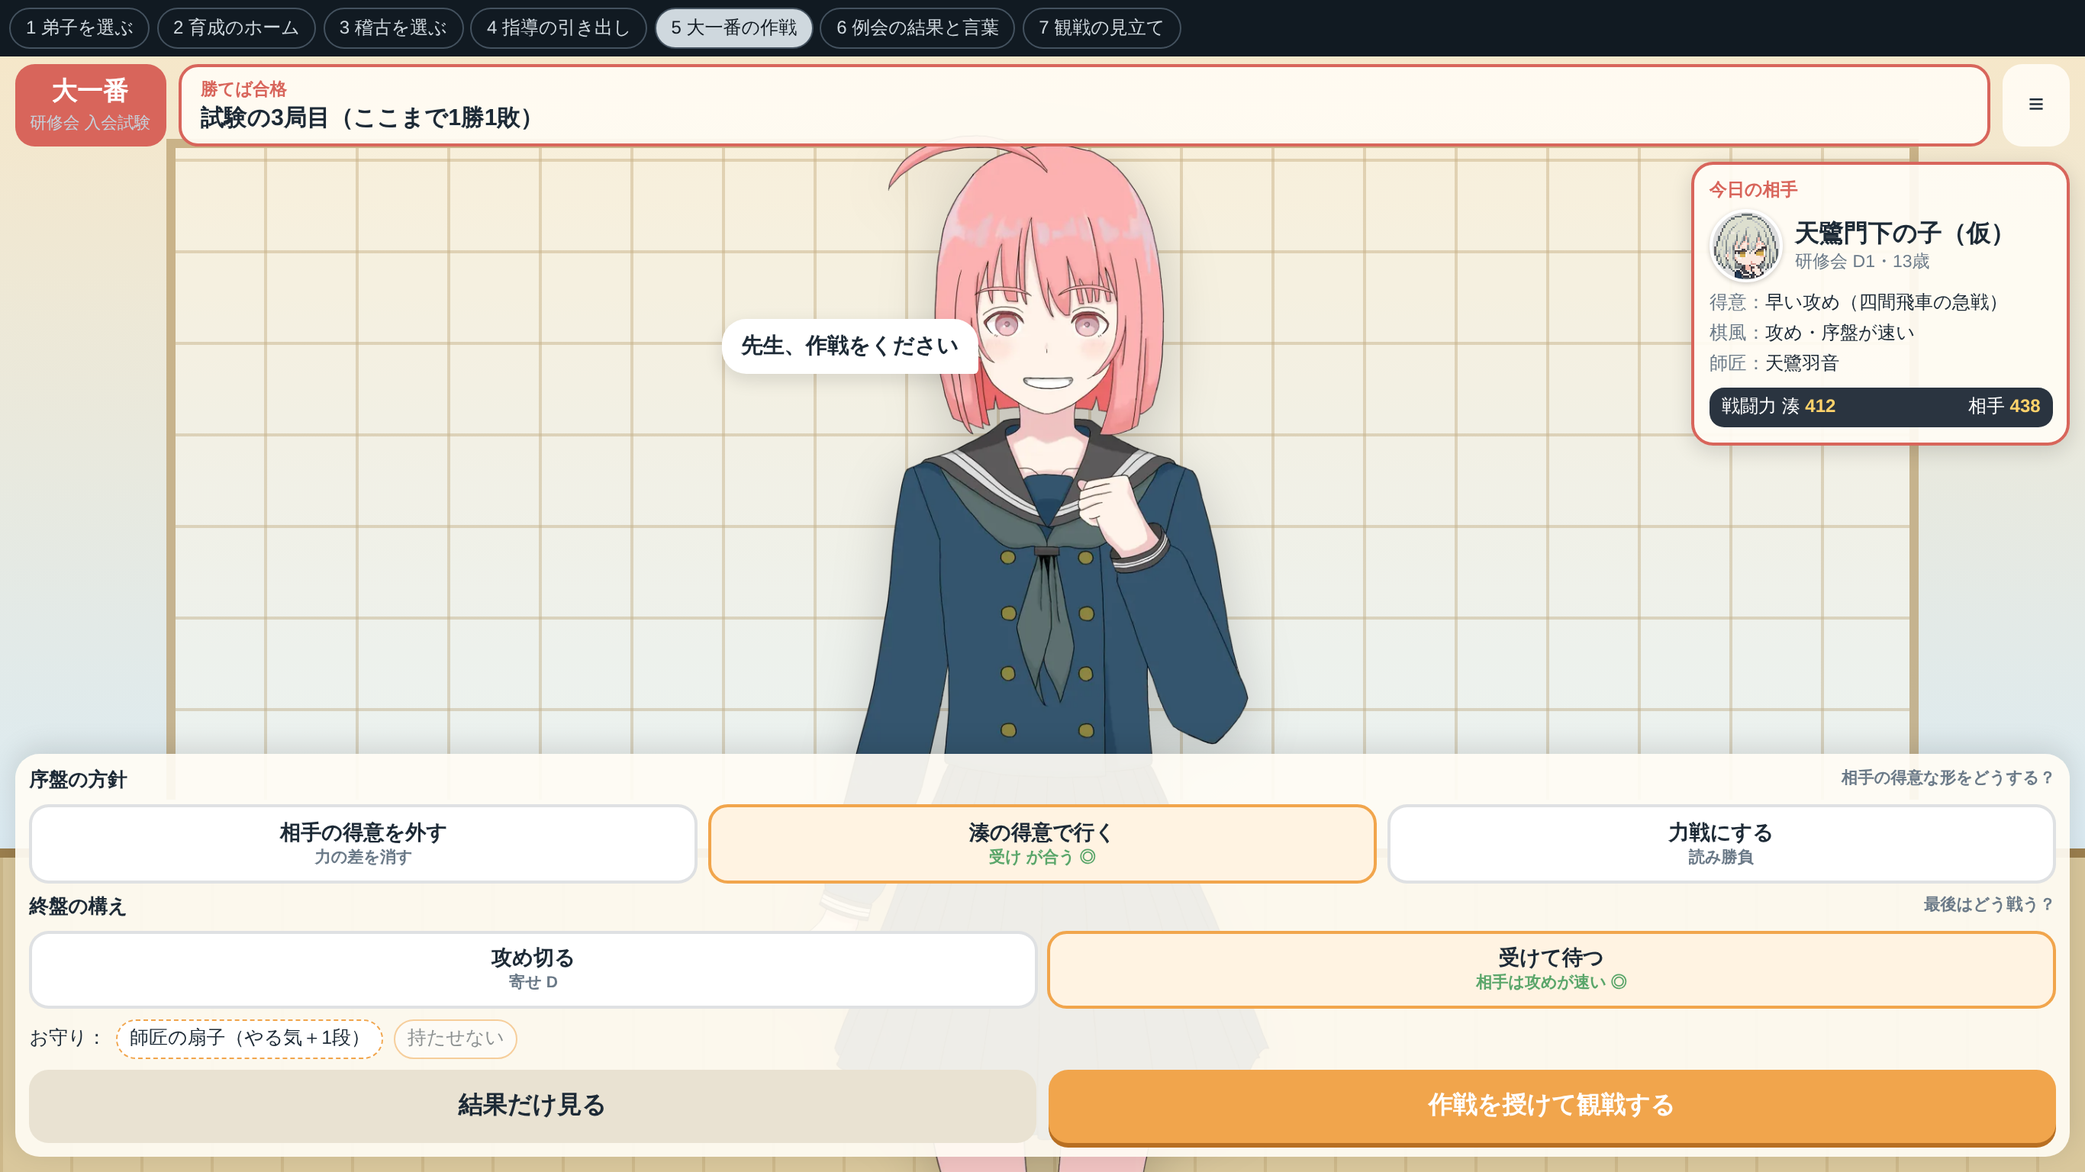
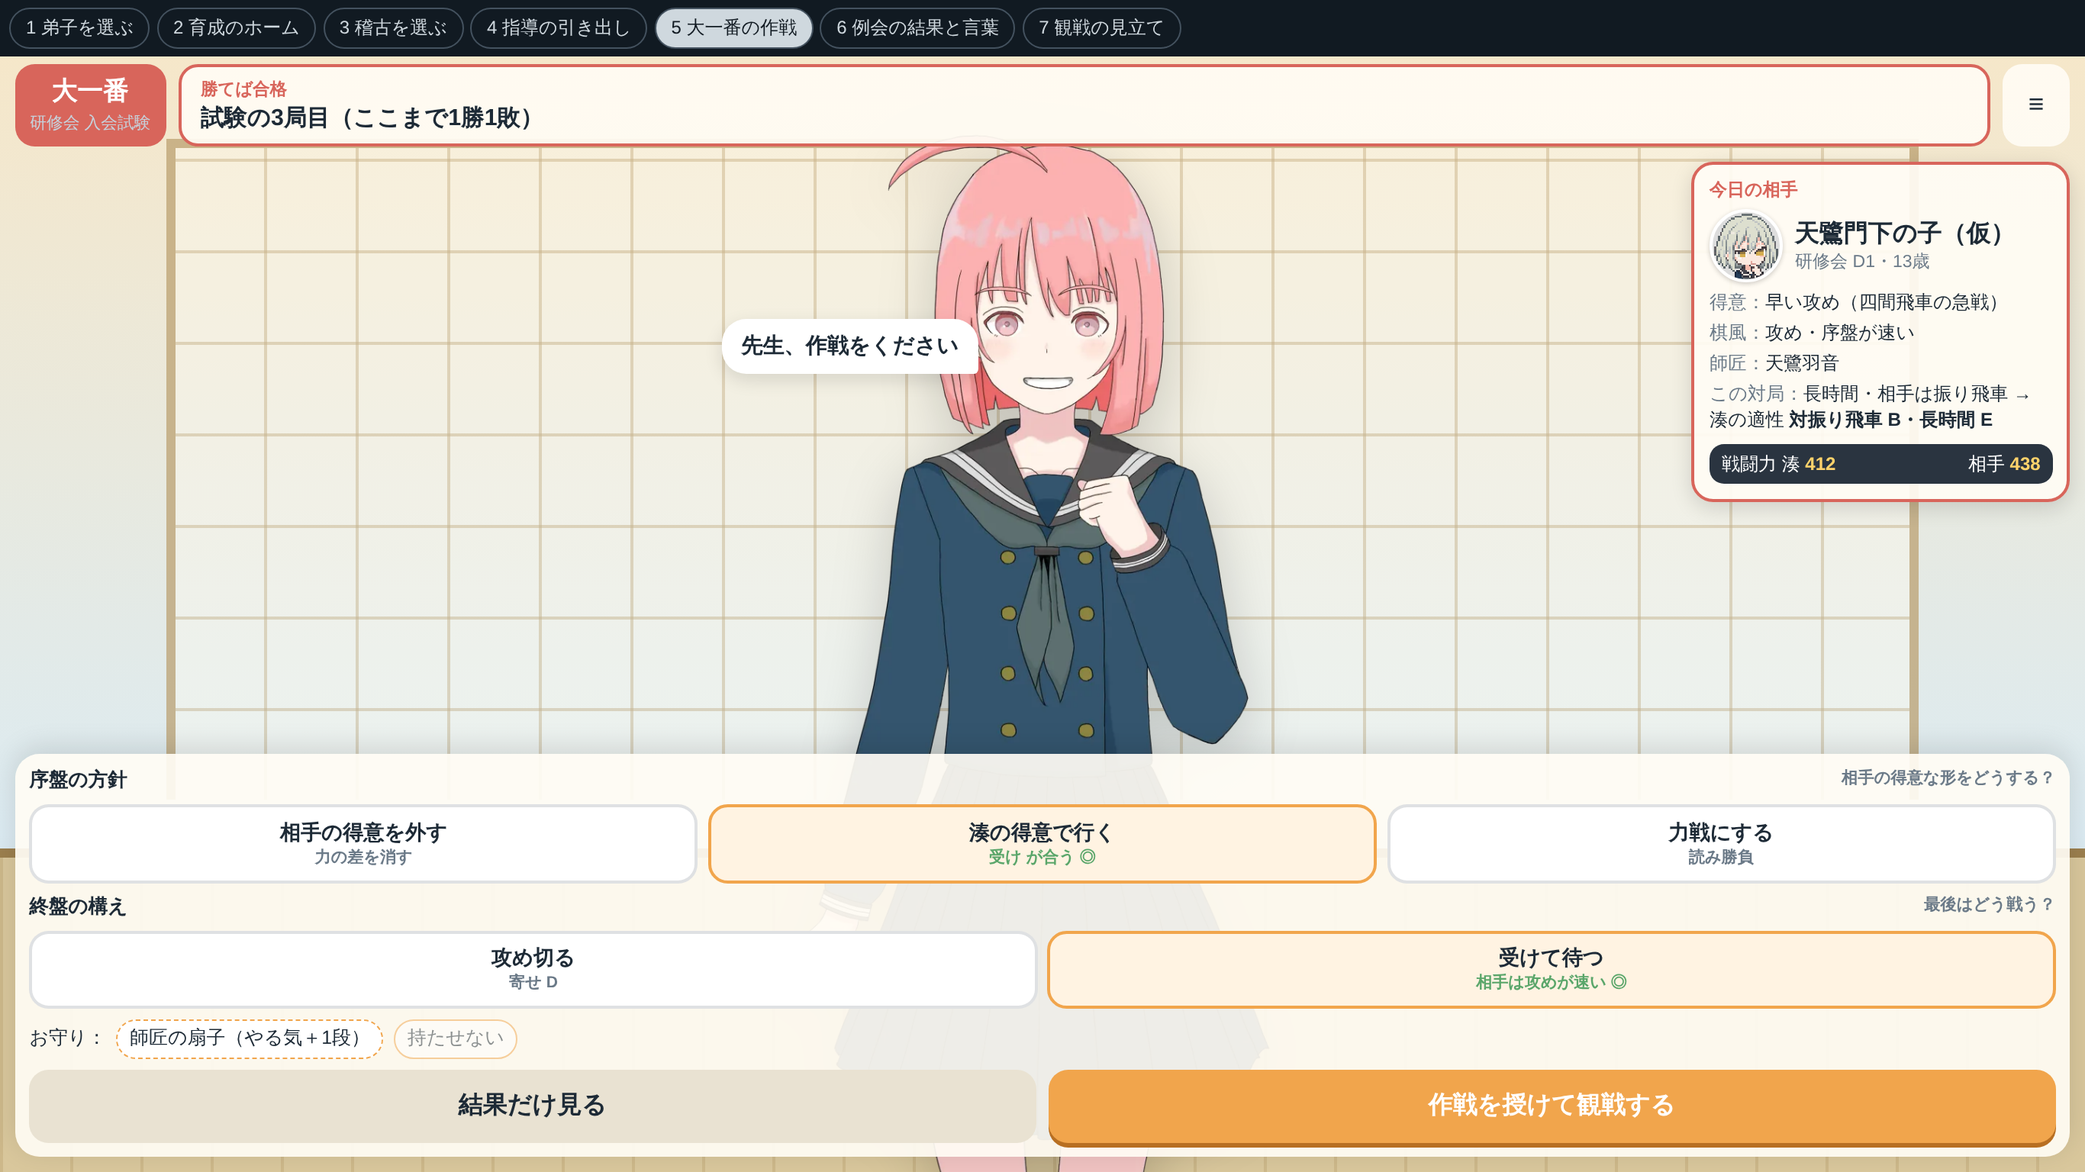
docs: 師匠の1年の能力値を4つにし、適性と戦い方を足す。
- 時間を持ち時間の適性に移し、能力値は読み・作戦・安定・詰みの4つにする
- 強さは0.6×平均＋0.4×最低で、いちばん弱い能力に引っ張られる。Aより上は伸びが鈍る(D:4-7 平均と平凡は同じ・D:2-1)
- 戦型と持ち時間の適性(G〜A)で対局ごとに倍率、戦い方(主導・カウンター・粘り・研究)で指し方の向きとスキルの相性(D:8-1)
- モックアップの能力の札・適性の表・稽古の伸び・大一番の相手の札を直した
- 設計は20章、AGENTS.mdを更新

Claude-Session: https://claude.ai/code/session_01CSNAKJWwLor7hKy3TRq9Wu

Changed region(s): [[0.8089, 0.3125, 0.9956, 0.4375]]

diff --git a/docs/disciple-mode/mock.html b/docs/disciple-mode/mock.html
@@ -76,6 +76,12 @@ button { font: inherit; color: inherit; cursor: pointer; }
 .skills { display: flex; flex-wrap: wrap; gap: 0.25rem; margin-top: 0.15rem; }
 .skill { padding: 0.08rem 0.45rem; border-radius: 999px; background: linear-gradient(90deg, #ffe6a8, #ffd0a0); color: #6a3a10; font-size: 0.66rem; font-weight: 900; }
 .skill--hidden { background: #e6e1d6; color: var(--muted); }
+.skill--style { background: var(--ink); color: #fff; }
+.apt { display: grid; grid-template-columns: repeat(3, 1fr); gap: 0.2rem; }
+.apt span { display: flex; justify-content: space-between; padding: 0.1rem 0.3rem; border-radius: 0.35rem; background: #f3eee2; font-size: 0.66rem; font-weight: 800; }
+.apt b { color: var(--accent-ink); }
+.gains { grid-template-columns: repeat(4, 1fr) !important; }
+.extra { margin-top: 0.3rem; font-size: 0.72rem; color: #c0661b; font-weight: 800; }
 .tr .aim { position: absolute; top: 0.3rem; right: 0.4rem; padding: 0 0.35rem; border-radius: 999px; background: #e2457a; color: #fff; font-size: 0.58rem; }
 
 /* ---- 右のやる気・体力 */
@@ -256,7 +262,7 @@ button { font: inherit; color: inherit; cursor: pointer; }
   .stat .rank { width: 1.3rem; height: 1.3rem; font-size: 0.68rem; }
   .stats .who b { font-size: 0.8rem; }
   .mood { top: 3.7rem; right: 0.4rem; width: 7.4rem; padding: 0.4rem 0.45rem; gap: 0.3rem; }
-  .mood .note { display: none; }
+  .apt { grid-template-columns: repeat(2, 1fr); }
   .friend { width: 1.9rem; height: 1.9rem; }
   .say, .say--high { top: 44%; bottom: auto; left: 0.6rem; transform: none; max-width: 60%; font-size: 0.8rem; }
   .dock, .train-row { left: 0.4rem; right: 0.4rem; bottom: 0.4rem; grid-template-columns: repeat(3, minmax(0, 1fr)); }
@@ -343,7 +349,7 @@ button { font: inherit; color: inherit; cursor: pointer; }
       <div><small>やる気</small><span class="face">好調 ↗</span></div>
       <div><small>体力 72/100</small><div class="hp"><i style="width:72%"></i></div></div>
       <div><small>仲間</small><div class="friends" data-friends></div></div>
-      <div class="note">稽古に顔を出した仲間と一緒だと、よく伸びる</div>
+      <div><small>適性</small><div class="apt" data-apt></div></div>
     </aside>
     <div class="say">先生、今日はなにをしますか</div>
     <nav class="dock">
@@ -368,6 +374,7 @@ button { font: inherit; color: inherit; cursor: pointer; }
     <div class="preview">
       <h4><span id="tr-name">詰将棋</span><small id="tr-note">体力 −20・失敗 4%</small></h4>
       <div class="gains" id="tr-gains"></div>
+      <div class="extra" id="tr-extra"></div>
       <div class="go"><button class="btn-sub" data-go="home">やめる</button><button class="btn-main" data-go="lesson">この稽古にする</button></div>
     </div>
     <nav class="train-row" id="train-row"></nav>
@@ -411,6 +418,7 @@ button { font: inherit; color: inherit; cursor: pointer; }
         <li><span>得意：</span>早い攻め（四間飛車の急戦）</li>
         <li><span>棋風：</span>攻め・序盤が速い</li>
         <li><span>師匠：</span>天鷺羽音</li>
+        <li><span>この対局：</span>長時間・相手は振り飛車 → 湊の適性 <b>対振り飛車 B・長時間 E</b></li>
       </ul>
       <div class="power"><span>戦闘力 湊 <b>412</b></span><span>相手 <b>438</b></span></div>
     </aside>
@@ -511,15 +519,17 @@ function drawFigures() {
 // ---- 能力(5つ)
 const STATS = [
   { name: '読み', rank: 'E', value: 342 }, { name: '作戦', rank: 'F', value: 268 }, { name: '安定', rank: 'D', value: 488 },
-  { name: '詰み', rank: 'E', value: 395 }, { name: '時間', rank: 'F', value: 214 },
+  { name: '詰み', rank: 'E', value: 395 },
 ];
 const SKILLS = [{ name: '早見え', star: 1 }, { name: '？？？', star: 0, hidden: true }];
+const STYLE = 'カウンター型';
+const APTITUDES = [['対居', 'C'], ['対振', 'B'], ['相振', 'E'], ['角換', 'D'], ['早指', 'C'], ['長時間', 'E']];
 const TRAINS = [
-  { id: 'tsume', name: '詰将棋', ic: '🧩', lv: 2, fail: 4, cost: 20, gains: [6, 0, 0, 18, 0], friends: ['momoka'] },
-  { id: 'kifu', name: '棋譜並べ', ic: '📜', lv: 1, fail: 4, cost: 15, gains: [0, 16, 5, 0, 0], friends: [], aim: true },
-  { id: 'jissen', name: '実戦', ic: '♟', lv: 1, fail: 6, cost: 22, gains: [15, 0, 6, 0, 0], friends: ['pro'] },
-  { id: 'fast', name: '早指し', ic: '⏱', lv: 3, fail: 9, cost: 25, gains: [5, 0, 0, 0, 17], friends: [] },
-  { id: 'shisho', name: '師匠と指す', ic: '🏯', lv: 1, fail: 2, cost: 12, gains: [0, 0, 14, 0, 0], friends: [] },
+  { id: 'tsume', name: '詰将棋', ic: '🧩', lv: 2, fail: 4, cost: 20, gains: [6, 0, 0, 18], friends: ['momoka'] },
+  { id: 'kifu', name: '棋譜並べ', ic: '📜', lv: 1, fail: 4, cost: 15, gains: [0, 16, 0, 0], friends: [], aim: true, extra: '対振り飛車の適性 +1目盛り' },
+  { id: 'jissen', name: '実戦', ic: '♟', lv: 1, fail: 6, cost: 22, gains: [15, 0, 5, 0], friends: ['pro'] },
+  { id: 'fast', name: '早指し', ic: '⏱', lv: 3, fail: 9, cost: 25, gains: [0, 0, 17, 0], friends: [], extra: '早指しの適性 +1目盛り' },
+  { id: 'shisho', name: '師匠と指す', ic: '🏯', lv: 1, fail: 2, cost: 12, gains: [0, 0, 14, 0], friends: [], extra: '戦い方を少し寄せる' },
 ];
 const FRIENDS = {
   momoka: { img: '../../public/characters/sakurano-momoka-320.webp', heart: 60, px: false },
@@ -529,7 +539,7 @@ const FRIENDS = {
 const friendHtml = (id) => { const f = FRIENDS[id]; return `<span class="friend${f.px ? ' px' : ''}"><img src="${f.img}" alt=""><span class="heart"><i style="width:${f.heart}%"></i></span></span>`; };
 function statsHtml(gains = null) {
   const d = DISCIPLES[current];
-  const skills = `<div class="skills">${SKILLS.map((skill) => `<span class="skill${skill.hidden ? ' skill--hidden' : ''}">${skill.hidden ? '弱点 ？' : `${skill.name}${'★'.repeat(skill.star)}`}</span>`).join('')}</div>`;
+  const skills = `<div class="skills"><span class="skill skill--style">${STYLE}</span>${SKILLS.map((skill) => `<span class="skill${skill.hidden ? ' skill--hidden' : ''}">${skill.hidden ? '弱点 ？' : `${skill.name}${'★'.repeat(skill.star)}`}</span>`).join('')}</div>`;
   return `<div class="who"><b>${d.name.replace('（仮）', '')}</b><small>研修会前</small></div>` + STATS.map((stat, index) => {
     const rank = stat.rank.replace('+', '');
     const up = gains && gains[index] ? `<span class="up">+${gains[index]}</span>` : `<span></span>`;
@@ -544,12 +554,14 @@ function drawTrain() {
   document.getElementById('tr-name').textContent = t.name + (t.friends.length ? '　仲間と一緒' : '');
   document.getElementById('tr-note').textContent = `体力 −${t.cost}・失敗 ${t.fail}%`;
   document.getElementById('tr-gains').innerHTML = STATS.map((stat, index) => `<div class="${t.gains[index] >= 10 ? 'hot' : ''}">${stat.name}<b>${t.gains[index] ? `+${t.gains[index]}` : '—'}</b></div>`).join('');
+  document.getElementById('tr-extra').textContent = t.extra ?? '';
   document.querySelector('#train [data-stats]').innerHTML = statsHtml(t.gains);
   for (const el of row.querySelectorAll('[data-tr]')) el.addEventListener('click', () => { pickedTrain = Number(el.dataset.tr); drawTrain(); });
   for (const el of row.querySelectorAll('[data-go]')) el.addEventListener('click', () => show(el.dataset.go));
 }
 function drawHome() {
   document.querySelector('#home [data-stats]').innerHTML = statsHtml();
+  document.querySelector('#home [data-apt]').innerHTML = APTITUDES.map(([name, rank]) => `<span>${name}<b>${rank}</b></span>`).join('');
   document.querySelector('#home [data-friends]').innerHTML = ['momoka', 'pro', 'hanane'].map(friendHtml).join('');
   for (const el of document.querySelectorAll('[data-badge]')) el.innerHTML = el.dataset.badge === '2' ? friendHtml('momoka') + friendHtml('pro') : friendHtml('pro');
 }

diff --git a/docs/disciple-mode-design.md b/docs/disciple-mode-design.md
@@ -449,3 +449,72 @@
 - 立ち絵を百花の立ち絵（`public/characters/sakurano-momoka.webp`）に替えた（仮）。
 - 能力の札を5つの能力（読み・作戦・安定・詰み・時間）にし、スキルの札を足した。
 - 画面7「観戦の見立て」を足した（評価値のグラフと印・理由の5択・狙い目）。
+
+## 20. 能力値・適性・戦い方の組み替え（2026-11-21。ユーザーの「それでいってみよう」）
+
+19章の能力値を、次の4層に組み替える。19章のうち、観戦の見立て（19-5）・対局の決め方（19-6）・スキル15（19-4。名前の確認は残る）はそのまま。19-2の「時間」・19-3の作戦熟練度・19-7の稽古の表は、この章で置き換える。
+
+### 20-1. 組み替えた理由（19章の案の弱いところ）
+
+1. 「時間」は持ち時間が短い対局と秒読みでしか効かず、上げても効いた気がしない。
+2. 強さの式が単純だと、下の段の勝負を決めるうっかりを減らす「安定」だけ上げるのが正解になる（D:4-7 平均と平凡は同じ／選ぶ楽しさが消える）。
+3. 5つとも強さのつまみで、指し方の個性（攻め将棋・受け将棋）が盤の上に出ない（D:8-1 パラメーターでキャラ立ちを）。
+
+### 20-2. 4つの層
+
+| 層 | 中身 | 何に効くか |
+| --- | --- | --- |
+| 能力値（4つ・0〜1200） | 読み・作戦・安定・詰み | 強さ。AIのつまみは19-2のまま（読み＝探索量・候補数、作戦＝戦法と囲いの選び方・大局観・序盤のぶれ、安定＝ぶれ・見落とし・確認・台無しの上限、詰み＝詰みを見つける力・詰めろに気づく手数） |
+| 適性（G〜A） | 戦型の適性4つ（対居飛車・対振り飛車・相振り・角換わり）と、持ち時間の適性2つ（早指し・長時間） | 対局ごとに、合う適性で4つの能力に倍率（A×1.05・B×1.0・C×0.95・D×0.9・E×0.85・F×0.82・G×0.8）。戦型の適性は相手の戦法で、持ち時間の適性は本番の持ち時間で選ぶ |
+| 戦い方（1つ） | 主導型・カウンター型・粘り型・研究型 | 指し手の向き（攻めと受けの好み）と、スキルの相性 |
+| スキル | 15個（19-4） | 場面ごとのつまみ |
+
+### 20-3. 強さの式（いちばん弱い能力に引っ張られる）
+
+- 4つの能力をLvに換えたあと（0＝Lv12、600＝Lv30、1200＝Lv49。19-2）、全体の強さ＝0.6×平均＋0.4×最低。対局のつまみは能力ごとのLvで引くが、AIの読みの量（探索量）の上限と、観戦しない局の勝ち負けに使うレーティングは、この全体の強さから出す。
+- A（900）より上は伸びが鈍る（稽古の伸び×0.6、S（1050）より上は×0.4）。SSと藤井曲線は「全部をそろえた先のごほうび」にする。
+- これで「尖らせる（得意の場面で勝つ）か、そろえる（崩れない）か」が選択になる（D:2-1）。数字は自己対局で測って直す。
+
+### 20-4. 適性
+
+- 持ち時間の適性は、本番ごとの持ち時間で効く：研修会と奨励会の例会（持ち時間の短い対局）は早指し、三段リーグの大一番と四段のあとのタイトル戦（二日制）は長時間。大一番の相手の札に「この対局は長時間」と出し、適性と見比べられる（D:2-1）。
+- 観戦の「時間切迫」は、持ち時間の適性が低いときに出やすい（今の時計の重圧`clockEffect`を、適性で強める）。19章の時間配分のつまみ（`cpuThinkPlan`の配り方）は、持ち時間の適性で決める。
+- 戦型の適性は、相手の得意戦法（相手の札に出る）と大一番の作戦（得意を外す・自分の得意で行く）で効く。19-3の作戦熟練度（戦法ごとの★）はやめ、この大きな括りにする（見て分かり、選ぶのが簡単。UD:2）。
+- 適性は稽古（20-6）と、その戦型・持ち時間で勝った数で上がる。
+
+### 20-5. 戦い方
+
+| 戦い方 | 指し方 | かみ合うスキル | はじめの弟子 |
+| --- | --- | --- | --- |
+| 主導型 | 序盤から攻めの手を好む（攻めの重み＋） | 研究家・妙手・勝ちきる力 | 結城 蒼（小6・終盤） |
+| カウンター型 | 受けて、相手の攻めが切れたところで反撃する（受けの重み＋） | 受けの達人・逆境の粘り・勝負術 | 相沢 湊（中1・受け） |
+| 粘り型 | 不利でも崩れない手を選ぶ（投了が遅く、劣勢のぶれが小さい） | 逆境の粘り・不屈・千里眼 | （育成で寄せて変える） |
+| 研究型 | 定跡を長く指し、序盤で差をつける（定跡の手数＋） | 研究家・対策の鬼・長考派 | 朝比奈 紬（高1・研究） |
+
+- 戦い方は強さを変えない（指し方の向きだけ）。今の棋士の棋風（`player-character.mjs`の`attack`）と同じつまみを使う。
+- 戦い方とかみ合うスキルは、手に入れやすく（条件の回数が7割）、効き目が1割増す。
+- 戦い方は、稽古の「師匠と指す」と、対局のあとの言葉で少しずつ寄せられる（目盛りが反対側へ進むと変わる。変わったら場面）。観戦すると、弟子が戦い方どおりに指しているのが見える（攻めの手・受けの手の帯）。
+
+### 20-6. 稽古（5種）の見直し
+
+| 稽古 | 主に伸びる | ほか |
+| --- | --- | --- |
+| 詰将棋 | 詰み | 読みが少し |
+| 棋譜並べ | 作戦 | 選んだ戦型の適性が上がる |
+| 実戦（練習将棋） | 読み | 研究会の仲間がいると伸びが増える |
+| 早指し | 安定 | 早指しの適性が上がる |
+| 師匠と指す | 好きな能力1つ | 戦い方を少し寄せる（寄せる向きを選ぶ） |
+
+- 長時間の適性は、本番の長時間の対局（大一番）と、出かける先の「将棋会館の研究会（長時間）」で上がる。
+
+### 20-7. 画面（モックアップの直し）
+
+- 左の札：能力4つ（読み・作戦・安定・詰み）と、その下に戦い方の札（「カウンター型」）とスキルの札。
+- 右の札：やる気・体力・仲間の下に、適性の小さな表（対居・対振・相振・角換・早指・長時間のG〜A）。
+- 大一番の相手の札に、相手の戦法と持ち時間と、弟子の合う適性（「対振り飛車 B・長時間 C」）を出す。
+
+### 20-8. 作る順番の見直し（19-8を置き換える）
+
+- 段階1：能力4つ→AIのつまみと強さの式（`src/core/disciple-strength.mjs`）、適性の倍率、戦い方の向き、自己対局での測定。観戦の局と観戦しない局の決め方。見立て（理由の5択と狙い目）。スキルは5つ（藤井曲線・逆境の粘り・勝ちきる力・終盤の鬼・秒読みに強い）。
+- 段階2：残りのスキル10・弱点と克服・師匠の眼・戦い方の変化と場面。
+- 段階3以降は16章のまま。

diff --git a/AGENTS.md b/AGENTS.md
@@ -375,6 +375,7 @@ git diff --check
 - 2026-11-21の依頼「1,3,4をやろう。」: 矢倉の途中の7九角で飯島流引き角戦法と付く誤判定を直し（`docs/formation-detect-design.md`の19章）、羽音に敗れた夜を17本に分け（`docs/pro-year-design.md`の35章）、CPUの囲いの候補を定跡補助のおすすめにそろえて左美濃の途中で角換わりなら矢倉へ組み替えるようにした（`docs/opening-guide-ux-design.md`の15章）。実際に遊んでの確かめは未確認。
 - 善彦との番勝負のあとの夜を、勝った夜・敗れた夜で22本に分けた（2026-11-21。`docs/pro-year-design.md`の36章）。実際に遊んでの確かめは未確認。
 - 棋士の1年の記録を3つの枠に分けて持てるようにした（2026-11-21。ユーザーの「棋士の1年で、セーブデータをいくつか作れるようにしたい。」。`docs/pro-year-design.md`の37章）。実際に複数の記録で遊んでの確かめは未確認。
+- 将棋が得意でない人向けの別のモード「師匠の1年」（弟子をとって育てる。指さなくても遊べる）を設計し、モックアップを作った（2026-11-21。`docs/disciple-mode-design.md`の7〜20章、見本`docs/disciple-mode/mock.html`。能力値4つ（読み・作戦・安定・詰み）＋適性＋戦い方＋スキル15、観戦で崩れた理由を見抜く）。実装はまだ。「藤井曲線」の名前を画面に出すかはユーザーに確かめる。
 - 次の候補（ユーザーの依頼はまだない。頼まれたら設計文書の章から始める）:
   - 観戦する対局をエンジンが本当に指して勝ち負けを決める（`docs/tournament-relay-design.md`の20章）。段階0（測定）は済み（20-6。見積もりは`scripts/engine-world-sim.mjs`）。段階1（分身の対局を本局にする、20-8）・段階2（分身の回戦の全局を本局にする、20-9。主要キャラ（分身・羽音・善彦）のいない局は観戦用の読み。強さの表は測り直し済み）・段階3（敗退後の観戦を本局にする、20-10。見終えるたびに残りを指し直し、名簿は残りを確定してから進める）も済み。20章の段階はここまで。本物のスマホ・タブレットでの速さと、上の世界（基準Lv40以上）のブラウザでの時間はまだ測っていない。
   - 名人戦の分身の観戦参加は21章、回戦の中継ボード（リーグ表の上で同時に進める・ほかの対局も本局に）は22章、自分の出ない番勝負の観戦（名人の発表）は23章で済み。
